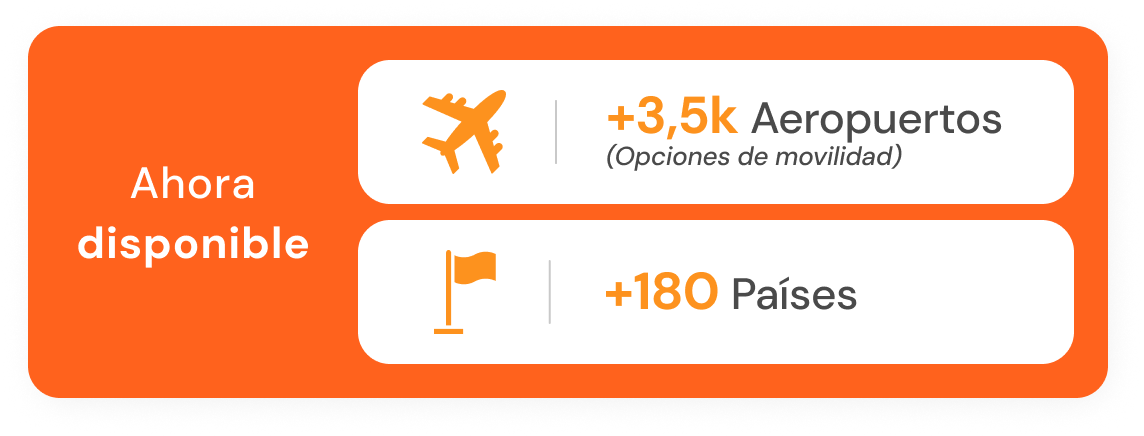
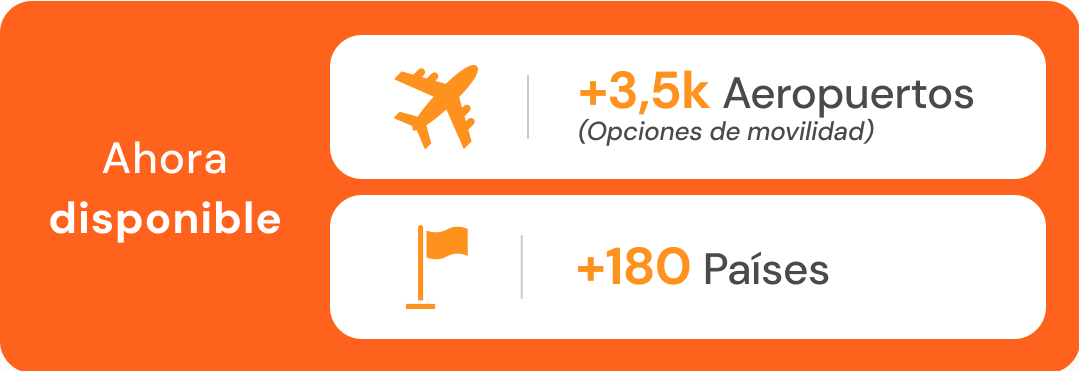
Update template

diff --git a/TransferV1ESP.html b/TransferV1ESP.html
@@ -1917,20 +1917,20 @@
                                 <p class="font-size-sm-20 font-weight-bold">¡No te lo pierdas!</p>
                             </div>
                             <div class="text-center imagen-desktop margin-bottom-22">
-                                <img src="https://raw.githubusercontent.com/pbatista91/email-templates/refs/heads/main/desktop-2.png" alt="group" style="width: 100%; display: block">
+                                <img src="https://raw.githubusercontent.com/pbatista91/email-templates/refs/heads/main/desktop-2-esp.png" alt="group" style="width: 100%; display: block">
                             </div>
                             <div class="text-center imagen-mobile margin-bottom-22">
-                                <img src="https://raw.githubusercontent.com/pbatista91/email-templates/refs/heads/main/mobile-2.png" alt="group" style="width: 100%; display: block">
+                                <img src="https://raw.githubusercontent.com/pbatista91/email-templates/refs/heads/main/mobile-2-esp.png" alt="group" style="width: 100%; display: block">
                             </div>
                             <div class="mb-22">
                                 <p class="InnerSDText font-size-sm-16">en servicios de movilidad seleccionados</p>
                             </div>
 
                             <div class="text-center imagen-desktop">
-                                <img src="https://raw.githubusercontent.com/pbatista91/email-templates/refs/heads/main/desktop-3.png" alt="group" style="width: 100%; display: block">
+                                <img src="https://raw.githubusercontent.com/pbatista91/email-templates/refs/heads/main/desktop-3-esp.png" alt="group" style="width: 100%; display: block">
                             </div>
                             <div class="text-center imagen-mobile">
-                                <img src="https://raw.githubusercontent.com/pbatista91/email-templates/refs/heads/main/mobile-3.png" alt="group" style="width: 100%; display: block">
+                                <img src="https://raw.githubusercontent.com/pbatista91/email-templates/refs/heads/main/mobile-3-esp.png" alt="group" style="width: 100%; display: block">
                             </div>          
                             
                             <div class="booking-window">
